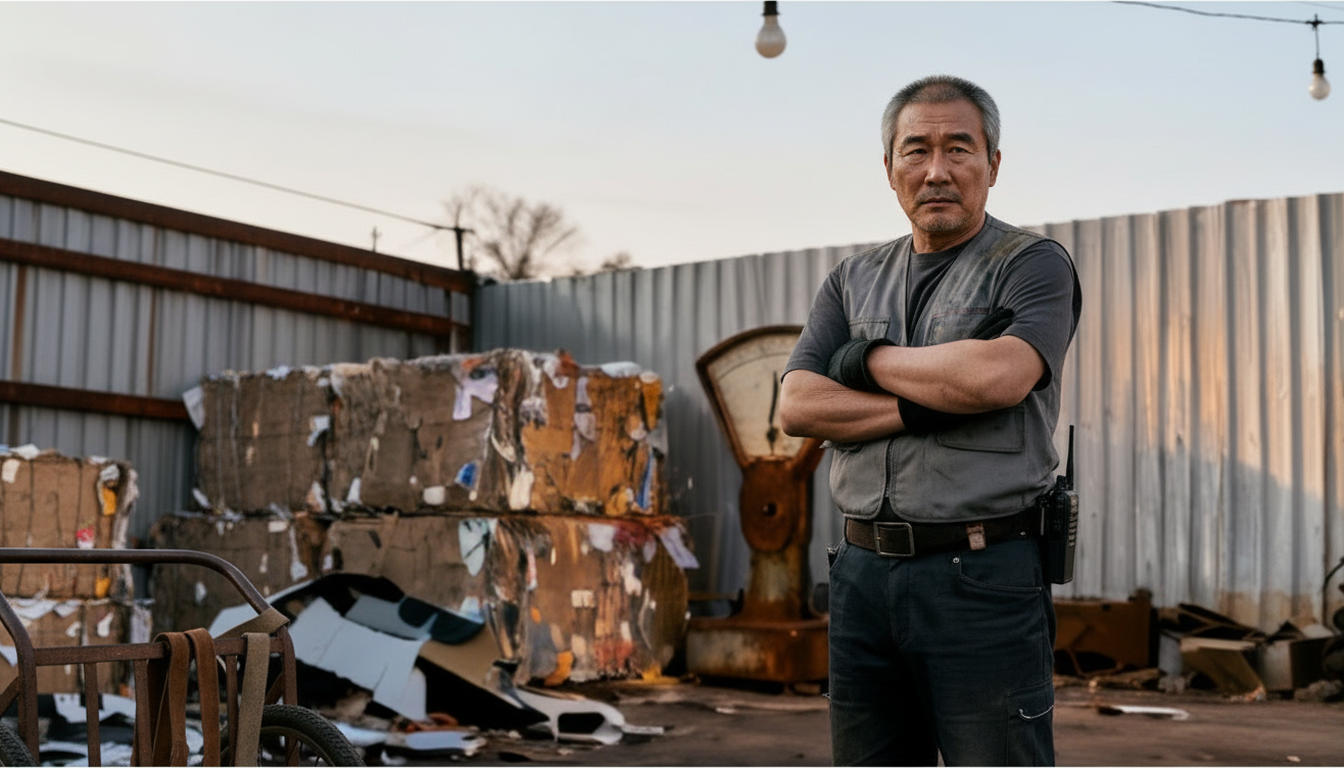
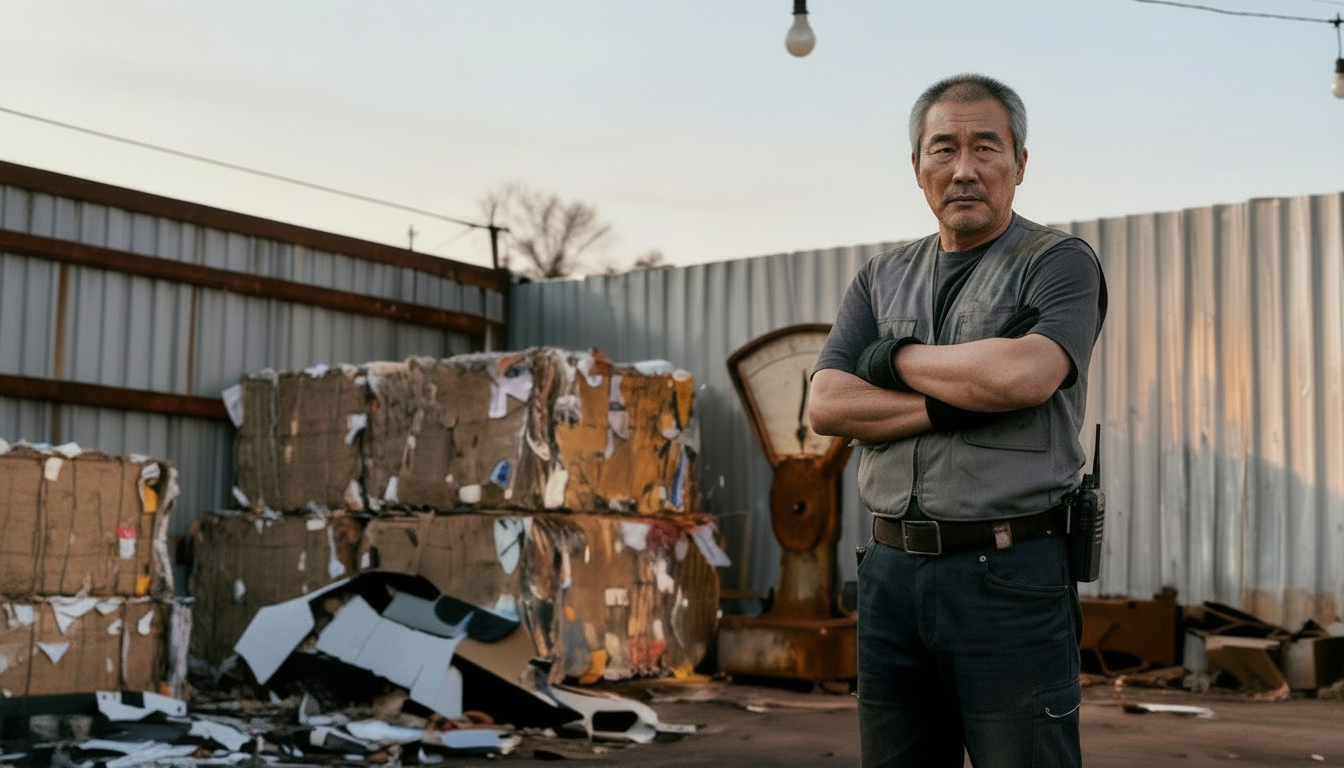
EP3 S02 리어카 제거 편집본 채택 — 리어카 등장 컷 전부 소품 시트 설계로 통일 완료
Claude-Session: https://claude.ai/code/session_01AeoQmDXLUZEJdLTemjg1sM

diff --git a/docs/EP3-PHASE4-키프레임.md b/docs/EP3-PHASE4-키프레임.md
@@ -69,6 +69,6 @@
 ## 4-4. 리어카 통일 재생성 (2026-10-01, 사용자 지적 "손잡이가 서로 달라")
 - 원인: 리어카가 PHASE 2 에셋으로 잠기지 않음 → 소품 앵커 `CART@sheet` 추가(`docs/EP3-PHASE2-마스터에셋.md` 2-5).
 - 리어카 등장 22장면 재생성 → 손잡이 설계(중앙 끌채+가죽끈 감은 T자 그립) 통일 확인.
-- 2차 부작용: 리어카 참조 추가 후 S01·S02에 김씨 명찰·배지·반팔 발생 → 김씨 의상 잠금 문장 추가. S01·S02는 리어카가 거의 안 보이는 승인 원본(명찰 없음·긴팔)으로 복원, S29 손잡이 굽은 관→T자 재지시 후 합격, S34 뒤쪽 미는 손잡이→앞 끌채 끌기로 수정 합격.
+- 2차 부작용: 리어카 참조 추가 후 S01·S02에 김씨 명찰·배지·반팔 발생 → 김씨 의상 잠금 문장 추가. S01·S02는 승인 원본(명찰 없음·긴팔)을 인페인팅으로 편집해 옛 리어카를 화면 밖으로 제거(S01 리어카 없음, S02 리어카 없음 — 다음 컷 S03에서 손잡이 제시), S29 손잡이 굽은 관→T자 재지시 후 합격, S34 뒤쪽 미는 손잡이→앞 끌채 끌기로 수정 합격.
 - 경미(합격 처리): S29 좌측 트럭 번호판 흐림 자국, S37 손잡이가 U자에 가깝게 보임(가죽끈·술은 동일).
 - 추가 유료 생성: 리어카 시트 1 + 22 + 4 + 1 = 28장(약 1달러).
